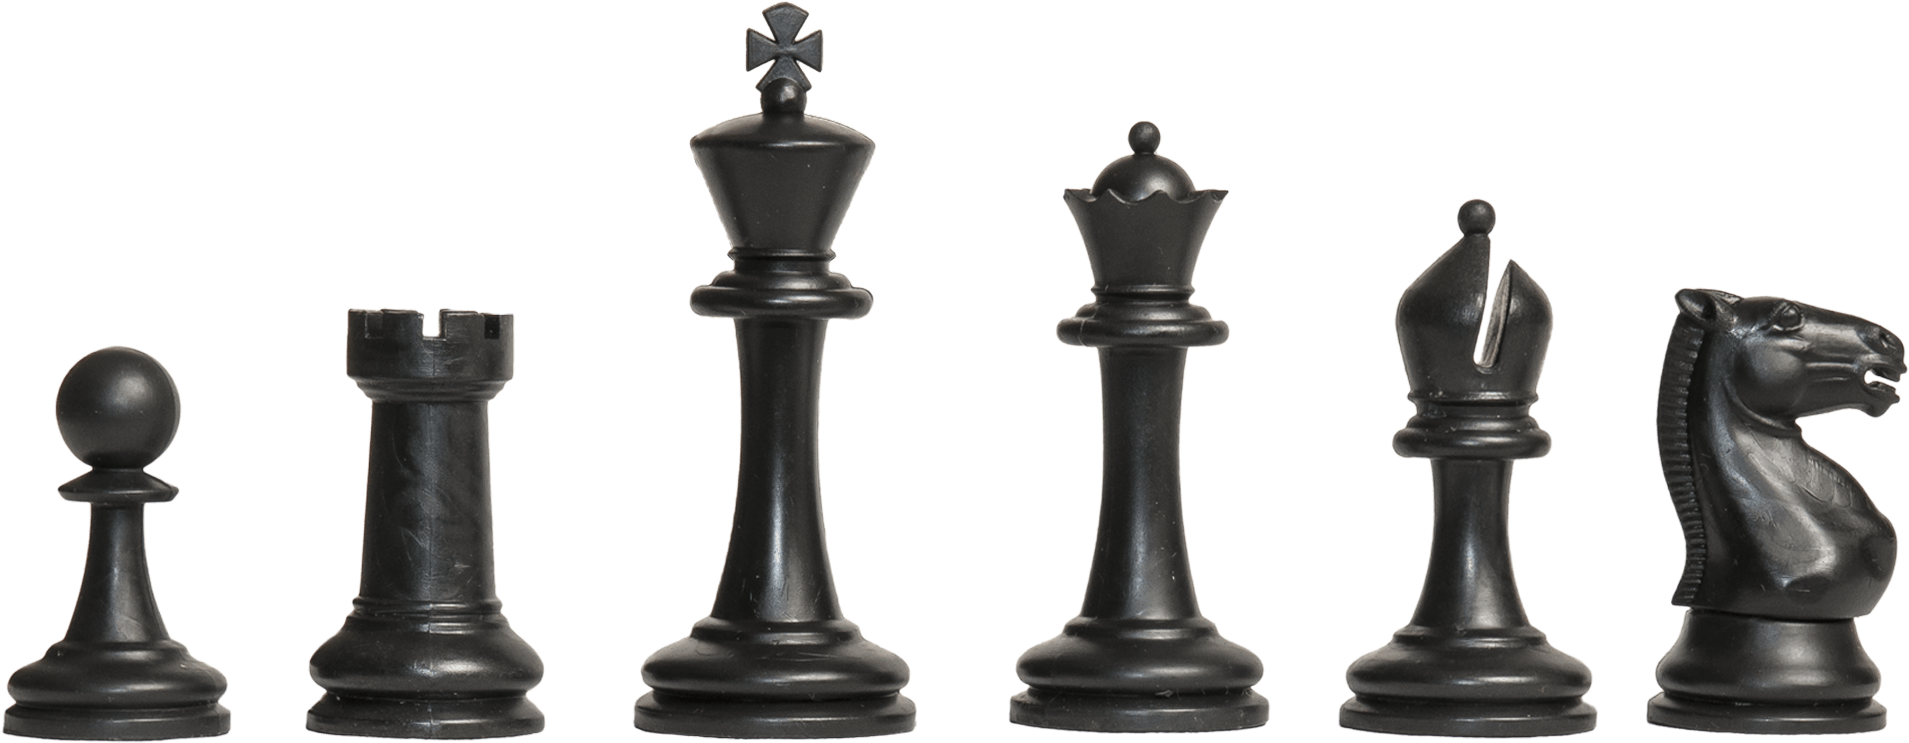
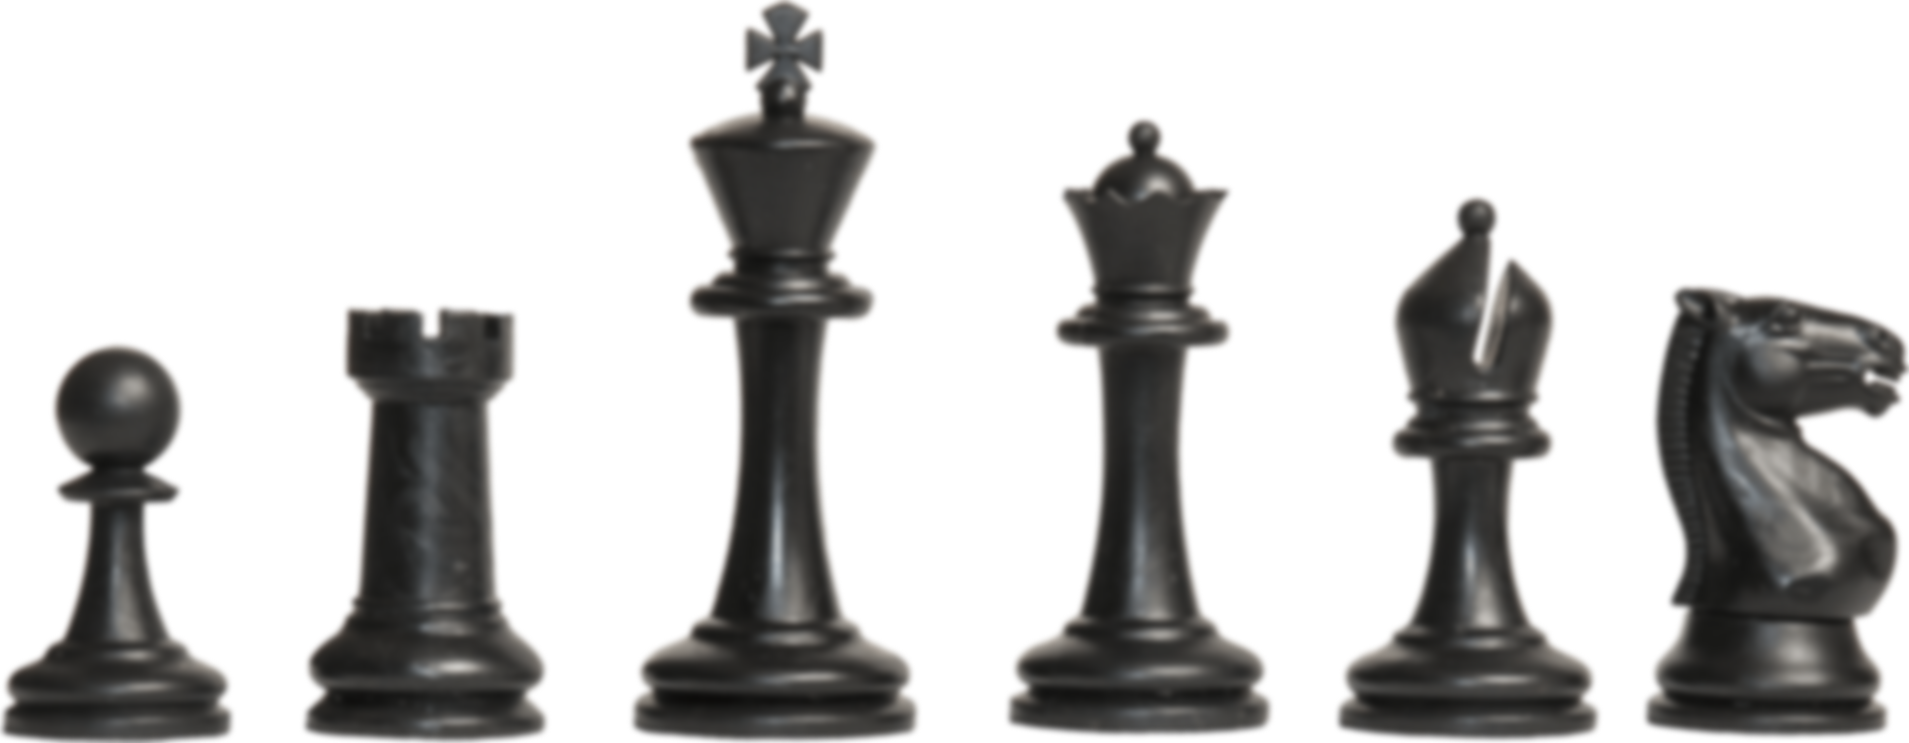
minor fixes and style changes

diff --git a/Engine.py b/Engine.py
@@ -8,7 +8,8 @@ import re
 import time
 
 #############################################################################
-# Interface with the sunfish engine
+# Interface with the Sunfish engine -- directly, rather than using either
+# of xboard or uci protocols.
 #############################################################################
 class Engine:
     def __init__(self, dispatch, resume=True):
@@ -55,7 +56,7 @@ class Engine:
                 return move
             if self.humans_turn:
                 break            
-            # Sunfish move deemed illegal by python-chess? likely a promotion            
+            # Sunfish move deemed illegal by python-chess? likely a promotion
             assert not move.promotion
             if not self.humans_turn:
                 move.promotion = chess.QUEEN
@@ -137,20 +138,20 @@ class Engine:
             self.redo.clear()
 
     def undo_move(self):
-        if self.can_undo():
-            assert len(self.hist) >= 2
-            # Assuming human plays white -- careful if/when implementing a "switch" feature
-            # Moves count should be even, unless we lost.
-            # Length of position history is odd because of initial empty position.
-            assert len(self.hist) % 2 or self.is_game_over
-            n = 1 if len(self.moves) % 2 else 2
-            self.hist = self.hist[:-n]
-            self.redo.append(self.moves[-n].uci())
-            while n > 0:
-                self.board.pop()
-                n -= 1
-            self.redo.append(self.last_move)
-            self.dispatch('on_update', *self.status(), self.last_move)
+        assert self.can_undo()
+        assert len(self.hist) >= 2
+        # Assuming human plays white -- careful if/when implementing a "switch" feature
+        # Moves count should be even, unless we lost.
+        # Length of position history is odd because of initial empty position.
+        assert len(self.hist) % 2 or self.is_game_over
+        n = 1 if len(self.moves) % 2 else 2
+        self.hist = self.hist[:-n]
+        self.redo.append(self.moves[-n].uci())
+        while n > 0:
+            self.board.pop()
+            n -= 1
+        self.redo.append(self.last_move)
+        self.dispatch('on_update', *self.status(), self.last_move)
 
     def redo_move(self):
         assert self.redo

diff --git a/Chess.py b/Chess.py
@@ -1,11 +1,11 @@
 from kivy.config import Config
-Config.set('graphics', 'multisamples', 4)
 Config.set('graphics', 'resizable', False)
 
 from kivy.app import App
 from kivy.core.window import Window
 from kivy.logger import Logger
 from kivy.graphics import *
+from kivy.graphics.opengl import *
 from kivy.properties import Property, StringProperty
 from kivy.uix.gridlayout import GridLayout
 from kivy.uix.widget import Widget
@@ -37,7 +37,6 @@ class Style:
         id = Style.piece_name[p.lower()]
         atlas = 'white' if p.isupper() else 'black'
         return path.join('atlas://', 'style', 'default', atlas, id)
-
 
 class Board(Widget):
     __events__ = ('on_move',)
@@ -89,7 +88,7 @@ class Board(Widget):
                 x,y = self.xy(file, rank)
                 w,h = 2 * [self.cell_size]
                 texture = self.style.piece_texture(p)
-                Rectangle(pos=(x+8, y+2), size=(w-16, h-4), source=texture)
+                Rectangle(pos=(x+16, y+2), size=(w-32, h-4), source=texture)
 
     def redraw(self, *args):
         Logger.info('{}.Board: redraw {}'.format(__name__, args))
@@ -97,7 +96,8 @@ class Board(Widget):
         self.redraw_board()
         self.redraw_pieces()
 
-    def select(self, move):
+    # select square(s) in the move -- in uci notation
+    def select(self, move: str):
         self.redraw_pieces()
         color = [(0.5, 0.65, 0.5, 1), (0.65, 0.75, 0.65, 1)]
         for i, pos in enumerate([move[i:i+2] for i in range(0, min(4, len(move)), 2)]):
@@ -141,7 +141,7 @@ class Chess(App):
     # Ctrl+z or Android back button
     def on_keyboard(self, window, keycode1, keycode2, text, modifiers):
         undo = keycode1 in [27, 1001] if is_mobile() else (keycode1==122 and 'ctrl' in modifiers)
-        if undo:
+        if undo and self.engine.can_undo():
             self.confirm('Take back last move', self.undo_move)
             return True
         elif keycode1==27:
